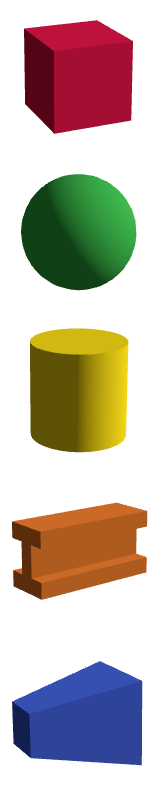
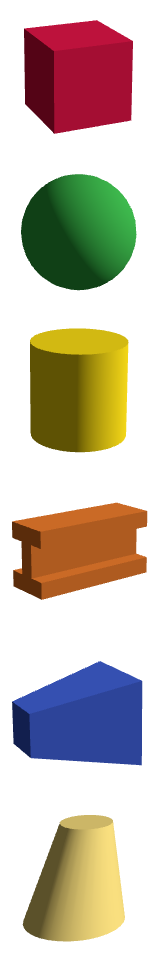
Add obliqueCylinder to builder

diff --git a/pbshm/ievisualiser/static/js/builder.js b/pbshm/ievisualiser/static/js/builder.js
@@ -17,7 +17,7 @@ const gui = new GUI();
 const elementFolder = gui.addFolder('Element');
 const elName = {'Name': ''}
 elementFolder.add(elName, 'Name').onChange(updateElementName);
-let floorFolder, boxFolder, sphereFolder, cylinderFolder, trapezoidFolder, beamFolder, folders, currentFolder;
+let floorFolder, boxFolder, sphereFolder, obliqueCylinderFolder, trapezoidFolder, beamFolder, folders, currentFolder;
 
 
 // Coordinates folders
@@ -63,9 +63,11 @@ const boxParams = {'width': 50,
                    'height': 50,
 				   'depth': 50};
 const sphereParams = {'radius': 25}
-const cylinderParams = {'top_radius': 10,
-   					    'bottom_radius': 10,
-					    'height': 50}
+const obliqueCylinderParams = {'top_radius': 25,
+   			   		    	   'bottom_radius': 25,
+					           'height': 50,
+					           'top_skew_x': 0,
+					           'top_skew_z': 0}
 const trapezoidParams = {"leftTransY": 10,
 						 "leftTransZ": 10,
 						 "leftDimensY": 20,
@@ -88,19 +90,24 @@ const sphereMaterial = new THREE.MeshLambertMaterial( { color: 0x3cb44b} );
 const cylinderMaterial = new THREE.MeshLambertMaterial( { color: 0xffe119} );
 const trapezoidMaterial = new THREE.MeshLambertMaterial( { color: 0x4363d8} );
 const beamMaterial = new THREE.MeshLambertMaterial( { color: 0xf58231} );
+const obliqueCylinderMaterial = new THREE.MeshLambertMaterial( { color: 0xF8DE7E} );
 const materials = {"BoxGeometry": boxMaterial,
 				   "SphereGeometry": sphereMaterial,
-				   "ObliqueCylinderGeometry": cylinderMaterial,
+				   "ObliqueCylinderGeometry": obliqueCylinderMaterial,
 				   "TrapezoidGeometry": trapezoidMaterial,
 				   "BeamGeometry": beamMaterial}
 
 
 let rollOverMesh;
-let cubeGeo, sphereGeo, cylinderGeo, trapezoidGeo, beamGeo;
+let cubeGeo, sphereGeo, obliqueCylinderGeo, trapezoidGeo, beamGeo;
 const rollOverMaterial = new THREE.MeshBasicMaterial( { color: 0xff0000, opacity: 0.5, transparent: true } );
 const rollOverCubeGeo = new THREE.BoxGeometry(boxParams.width, boxParams.height, boxParams.depth);
 const rollOverSphereGeo = new THREE.SphereGeometry(sphereParams.radius);
-const rollOverCylinderGeo = new ObliqueCylinderGeometry(cylinderParams.top_radius, cylinderParams.top_radius, cylinderParams.height);
+const rollOverObliqueCylinderGeo = new ObliqueCylinderGeometry(obliqueCylinderParams.top_radius,
+															   obliqueCylinderParams.top_radius,
+															   obliqueCylinderParams.height,
+															   obliqueCylinderParams.top_skew_x,
+															   obliqueCylinderParams.top_skew_z);
 const rollOverTrapezoidGeo = new TrapezoidGeometry(trapezoidParams.leftTransY, trapezoidParams.leftTransZ,
 												   trapezoidParams.leftDimensY, trapezoidParams.leftDimensZ,
 												   trapezoidParams.rightTransY, trapezoidParams.rightTransZ,
@@ -149,7 +156,11 @@ function init() {
 	// Default geometries on generation
 	cubeGeo = new THREE.BoxGeometry(boxParams.width, boxParams.height, boxParams.depth);
 	sphereGeo = new THREE.SphereGeometry(sphereParams.radius);
-	cylinderGeo = new ObliqueCylinderGeometry(cylinderParams.top_radius, cylinderParams.bottom_radius, cylinderParams.height);
+	obliqueCylinderGeo = new ObliqueCylinderGeometry(obliqueCylinderParams.top_radius,
+													 obliqueCylinderParams.bottom_radius,
+													 obliqueCylinderParams.height,
+													 obliqueCylinderParams.top_skew_x,
+													 obliqueCylinderParams.top_skew_z);
 	trapezoidGeo = new TrapezoidGeometry(10, 10, 20, 20, 0, 0, 40, 40, 50);
 	beamGeo = generateBeam("i-beam", beamParams.width, beamParams.h, beamParams.s, beamParams.t, beamParams.b);
 	
@@ -190,11 +201,11 @@ function init() {
 
 	initBoxGui()
 	initSphereGui();
-	initCylinderGui();
+	initObliqueCylinderGui();
 	initTrapezoidGui();
 	initBeamGui();
 	initGroundGui();  // Not added to list of folders so it is always visible
-	folders = [boxFolder, sphereFolder, cylinderFolder, trapezoidFolder, beamFolder, coordsFolder, typeFolder, materialFolder];
+	folders = [boxFolder, sphereFolder, obliqueCylinderFolder, trapezoidFolder, beamFolder, coordsFolder, typeFolder, materialFolder];
 	folders.forEach(folder => folder.hide()); // Initially hide all folders, then show only the ones we want when required
 
 }
@@ -265,10 +276,12 @@ function onPointerDown( event ) {
 				sphereFolder.children[0].setValue(currentObject.geometry.parameters.radius);
 				currentFolder = sphereFolder;
 			} else if (geometryType == "ObliqueCylinderGeometry"){
-				cylinderFolder.children[0].setValue(currentObject.geometry.parameters.radiusTop);
-				cylinderFolder.children[1].setValue(currentObject.geometry.parameters.radiusBottom);
-				cylinderFolder.children[2].setValue(currentObject.geometry.parameters.height);
-				currentFolder = cylinderFolder;
+				obliqueCylinderFolder.children[0].setValue(currentObject.geometry.parameters.radiusTop);
+				obliqueCylinderFolder.children[1].setValue(currentObject.geometry.parameters.radiusBottom);
+				obliqueCylinderFolder.children[2].setValue(currentObject.geometry.parameters.height);
+				obliqueCylinderFolder.children[3].setValue(currentObject.geometry.parameters.topSkewX);
+				obliqueCylinderFolder.children[4].setValue(currentObject.geometry.parameters.topSkewZ);
+				currentFolder = obliqueCylinderFolder;
 			} else if  (geometryType == "TrapezoidGeometry"){
 				trapezoidFolder.children[0].setValue(currentObject.geometry.parameters.leftTransY);
 				trapezoidFolder.children[1].setValue(currentObject.geometry.parameters.leftTransZ);
@@ -366,10 +379,10 @@ function allowUncheck() {
 			rollOverMesh.geometry = rollOverSphereGeo;
 			currentGeometry = sphereGeo;
 			currentFolder = sphereFolder;
-		} else if (currentId == "cylinder"){
-			rollOverMesh.geometry = rollOverCylinderGeo;
-			currentGeometry = cylinderGeo;
-			currentFolder = cylinderFolder;
+		} else if (currentId == "obliqueCylinder"){
+			rollOverMesh.geometry = rollOverObliqueCylinderGeo;
+			currentGeometry = obliqueCylinderGeo;
+			currentFolder = obliqueCylinderFolder;
 		} else if (currentId == "trapezoid"){
 			rollOverMesh.geometry = rollOverTrapezoidGeo;
 			currentGeometry = trapezoidGeo;
@@ -516,17 +529,20 @@ function initSphereGui(){
 }
 
 
-function initCylinderGui(){
-	cylinderFolder = elementFolder.addFolder('Geometry');
-	cylinderFolder.add(cylinderParams, 'top_radius').onChange(value => updateParameters("radiusTop", value));
-	cylinderFolder.add(cylinderParams, 'bottom_radius').onChange(value => updateParameters("radiusBottom", value));
-	cylinderFolder.add(cylinderParams, 'height').onChange(value => updateParameters("height", value));
+function initObliqueCylinderGui(){
+	obliqueCylinderFolder = elementFolder.addFolder('Geometry');
+	obliqueCylinderFolder.add(obliqueCylinderParams, 'top_radius').onChange(value => updateParameters("radiusTop", value));
+	obliqueCylinderFolder.add(obliqueCylinderParams, 'bottom_radius').onChange(value => updateParameters("radiusBottom", value));
+	obliqueCylinderFolder.add(obliqueCylinderParams, 'height').onChange(value => updateParameters("height", value));
+	obliqueCylinderFolder.add(obliqueCylinderParams, 'top_skew_x').onChange(value => updateParameters("topSkewX", value));
+	obliqueCylinderFolder.add(obliqueCylinderParams, 'top_skew_z').onChange(value => updateParameters("topSkewZ", value));
 	function updateParameters(changedParam, value){
 		if (currentObject.geometry.parameters[changedParam] != value){  // don't regenerate to the object if we're just updating the gui
 			const newParams = {...currentObject.geometry.parameters};
 			newParams[changedParam] = value;
 			updateGeometry(currentObject,
-						new ObliqueCylinderGeometry(newParams.radiusTop, newParams.radiusBottom, newParams.height));
+						new ObliqueCylinderGeometry(newParams.radiusTop, newParams.radiusBottom, newParams.height,
+							                        newParams.topSkewX, newParams.topSkewZ));
 			if (changedParam == "height"){
 				posParams.y = 0;
 				moveGeometryY();

diff --git a/pbshm/ievisualiser/static/css/builder.css b/pbshm/ievisualiser/static/css/builder.css
@@ -7,14 +7,6 @@ html, body {
   height: 100%;
   display: block;
 }
-/* #info {
-  position: absolute;
-  top: 10px;
-  width: 100%;
-  text-align: right;
-  z-index: 100;
-  display:block;
-} */
 #uiinfo {
   position: absolute;
   top: 0px;
@@ -39,7 +31,7 @@ html, body {
 }
 #ui input[type=radio] + label {
   background-image: url('../images/geometries.png');
-  background-size: 100% 500%;
+  background-size: 100% 600%;
   image-rendering: pixelated;
   width: 64px;
   height: 64px;
@@ -72,7 +64,7 @@ html, body {
 }
 #uitwo input[type=radio] + label {
   background-image: url('../images/geometries.png');
-  background-size: 100% 500%;
+  background-size: 100% 600%;
   image-rendering: pixelated;
   width: 64px;
   height: 64px;

diff --git a/pbshm/ievisualiser/templates/build-model.html b/pbshm/ievisualiser/templates/build-model.html
@@ -24,7 +24,8 @@
     </div>
     <div id="uitwo">
       <div class="tiles">
-        <input type="radio" name="voxel" id="trapezoid" value="4"><label for="trapezoid" style="background-position: -0% -400%"></label>
+        <input type="radio" name="voxel" id="trapezoid" value="4"><label for="trapezoid" style="background-position: -0% -400%"></label></br>
+        <input type="radio" name="voxel" id="obliqueCylinder" value="3"><label for="obliqueCylinder" style="background-position: -0% -500%"></label>
       </div>
     </div>
     <!-- Javascript Setup -->

diff --git a/pbshm/ievisualiser/static/js/obliqueCylinder.js b/pbshm/ievisualiser/static/js/obliqueCylinder.js
@@ -49,6 +49,8 @@ class ObliqueCylinderGeometry extends THREE.BufferGeometry {
 			radiusTop: radiusTop,
 			radiusBottom: radiusBottom,
 			height: height,
+			topSkewX: topSkewX,
+			topSkewZ: topSkewZ,
 			radialSegments: radialSegments,
 			heightSegments: heightSegments,
 			openEnded: openEnded,
